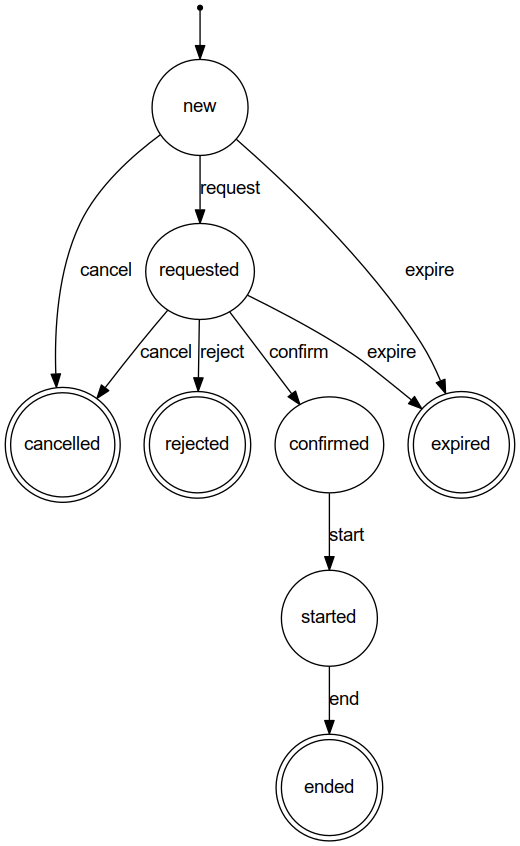
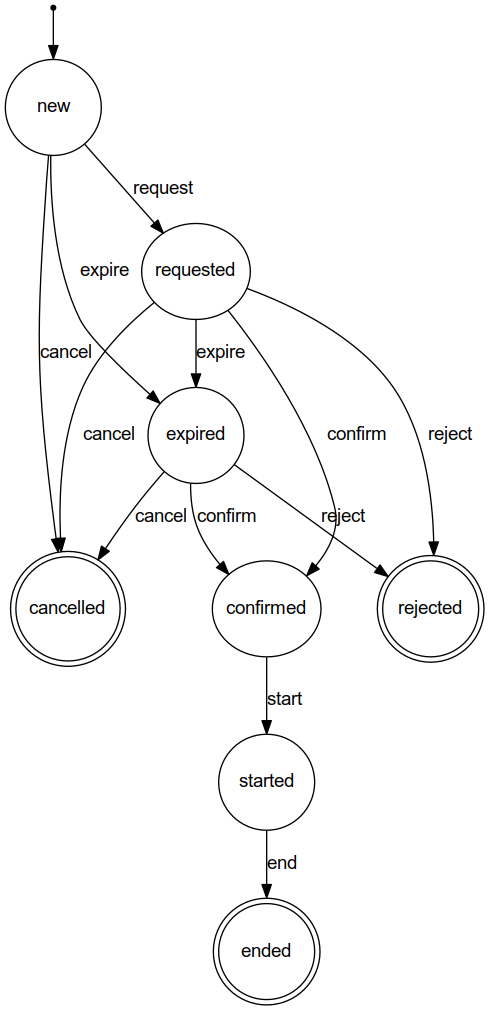
Support transitioning MWs out of expired state
We have now been requested to support transitioning MWs out of being
`expired` in a similar way to if they were still `requested`.

This is intended to make the process of requesting maintenance more
straightforward to users, as all maintenance should explicitly be
progressed to be either `confirmed` or `cancelled`/`rejected` via the
actions of some user, rather than becoming `expired` after which it
could no longer be able to be transitioned and maintenance for the same
model would then need to be re-requested (which would likely cause
confusion).

diff --git a/app/models/maintenance_window.rb b/app/models/maintenance_window.rb
@@ -28,9 +28,9 @@ class MaintenanceWindow < ApplicationRecord
     state :expired
 
     event :request { transition new: :requested }
-    event :confirm { transition requested: :confirmed }
-    event :cancel { transition [:new, :requested] => :cancelled }
-    event :reject { transition requested: :rejected }
+    event :confirm { transition [:requested, :expired] => :confirmed }
+    event :cancel { transition [:new, :requested, :expired] => :cancelled }
+    event :reject { transition [:requested, :expired] => :rejected }
     event :expire { transition [:new, :requested] => :expired }
     event :start { transition confirmed: :started }
     event :end { transition started: :ended }

diff --git a/spec/models/maintenance_window_spec.rb b/spec/models/maintenance_window_spec.rb
@@ -200,6 +200,16 @@ RSpec.describe MaintenanceWindow, type: :model do
       it_behaves_like 'it can be ended'
     end
 
+    context 'when expired' do
+      subject do
+        create(:maintenance_window, state: :expired)
+      end
+
+      it_behaves_like 'it can be cancelled'
+      it_behaves_like 'it can be confirmed'
+      it_behaves_like 'it can be rejected'
+    end
+
     it 'does not have transition comment added when `legacy_migration_mode` flag set on model' do
       # This test tests this behaviour for the started -> ended transition, but
       # any valid transition could be used.
